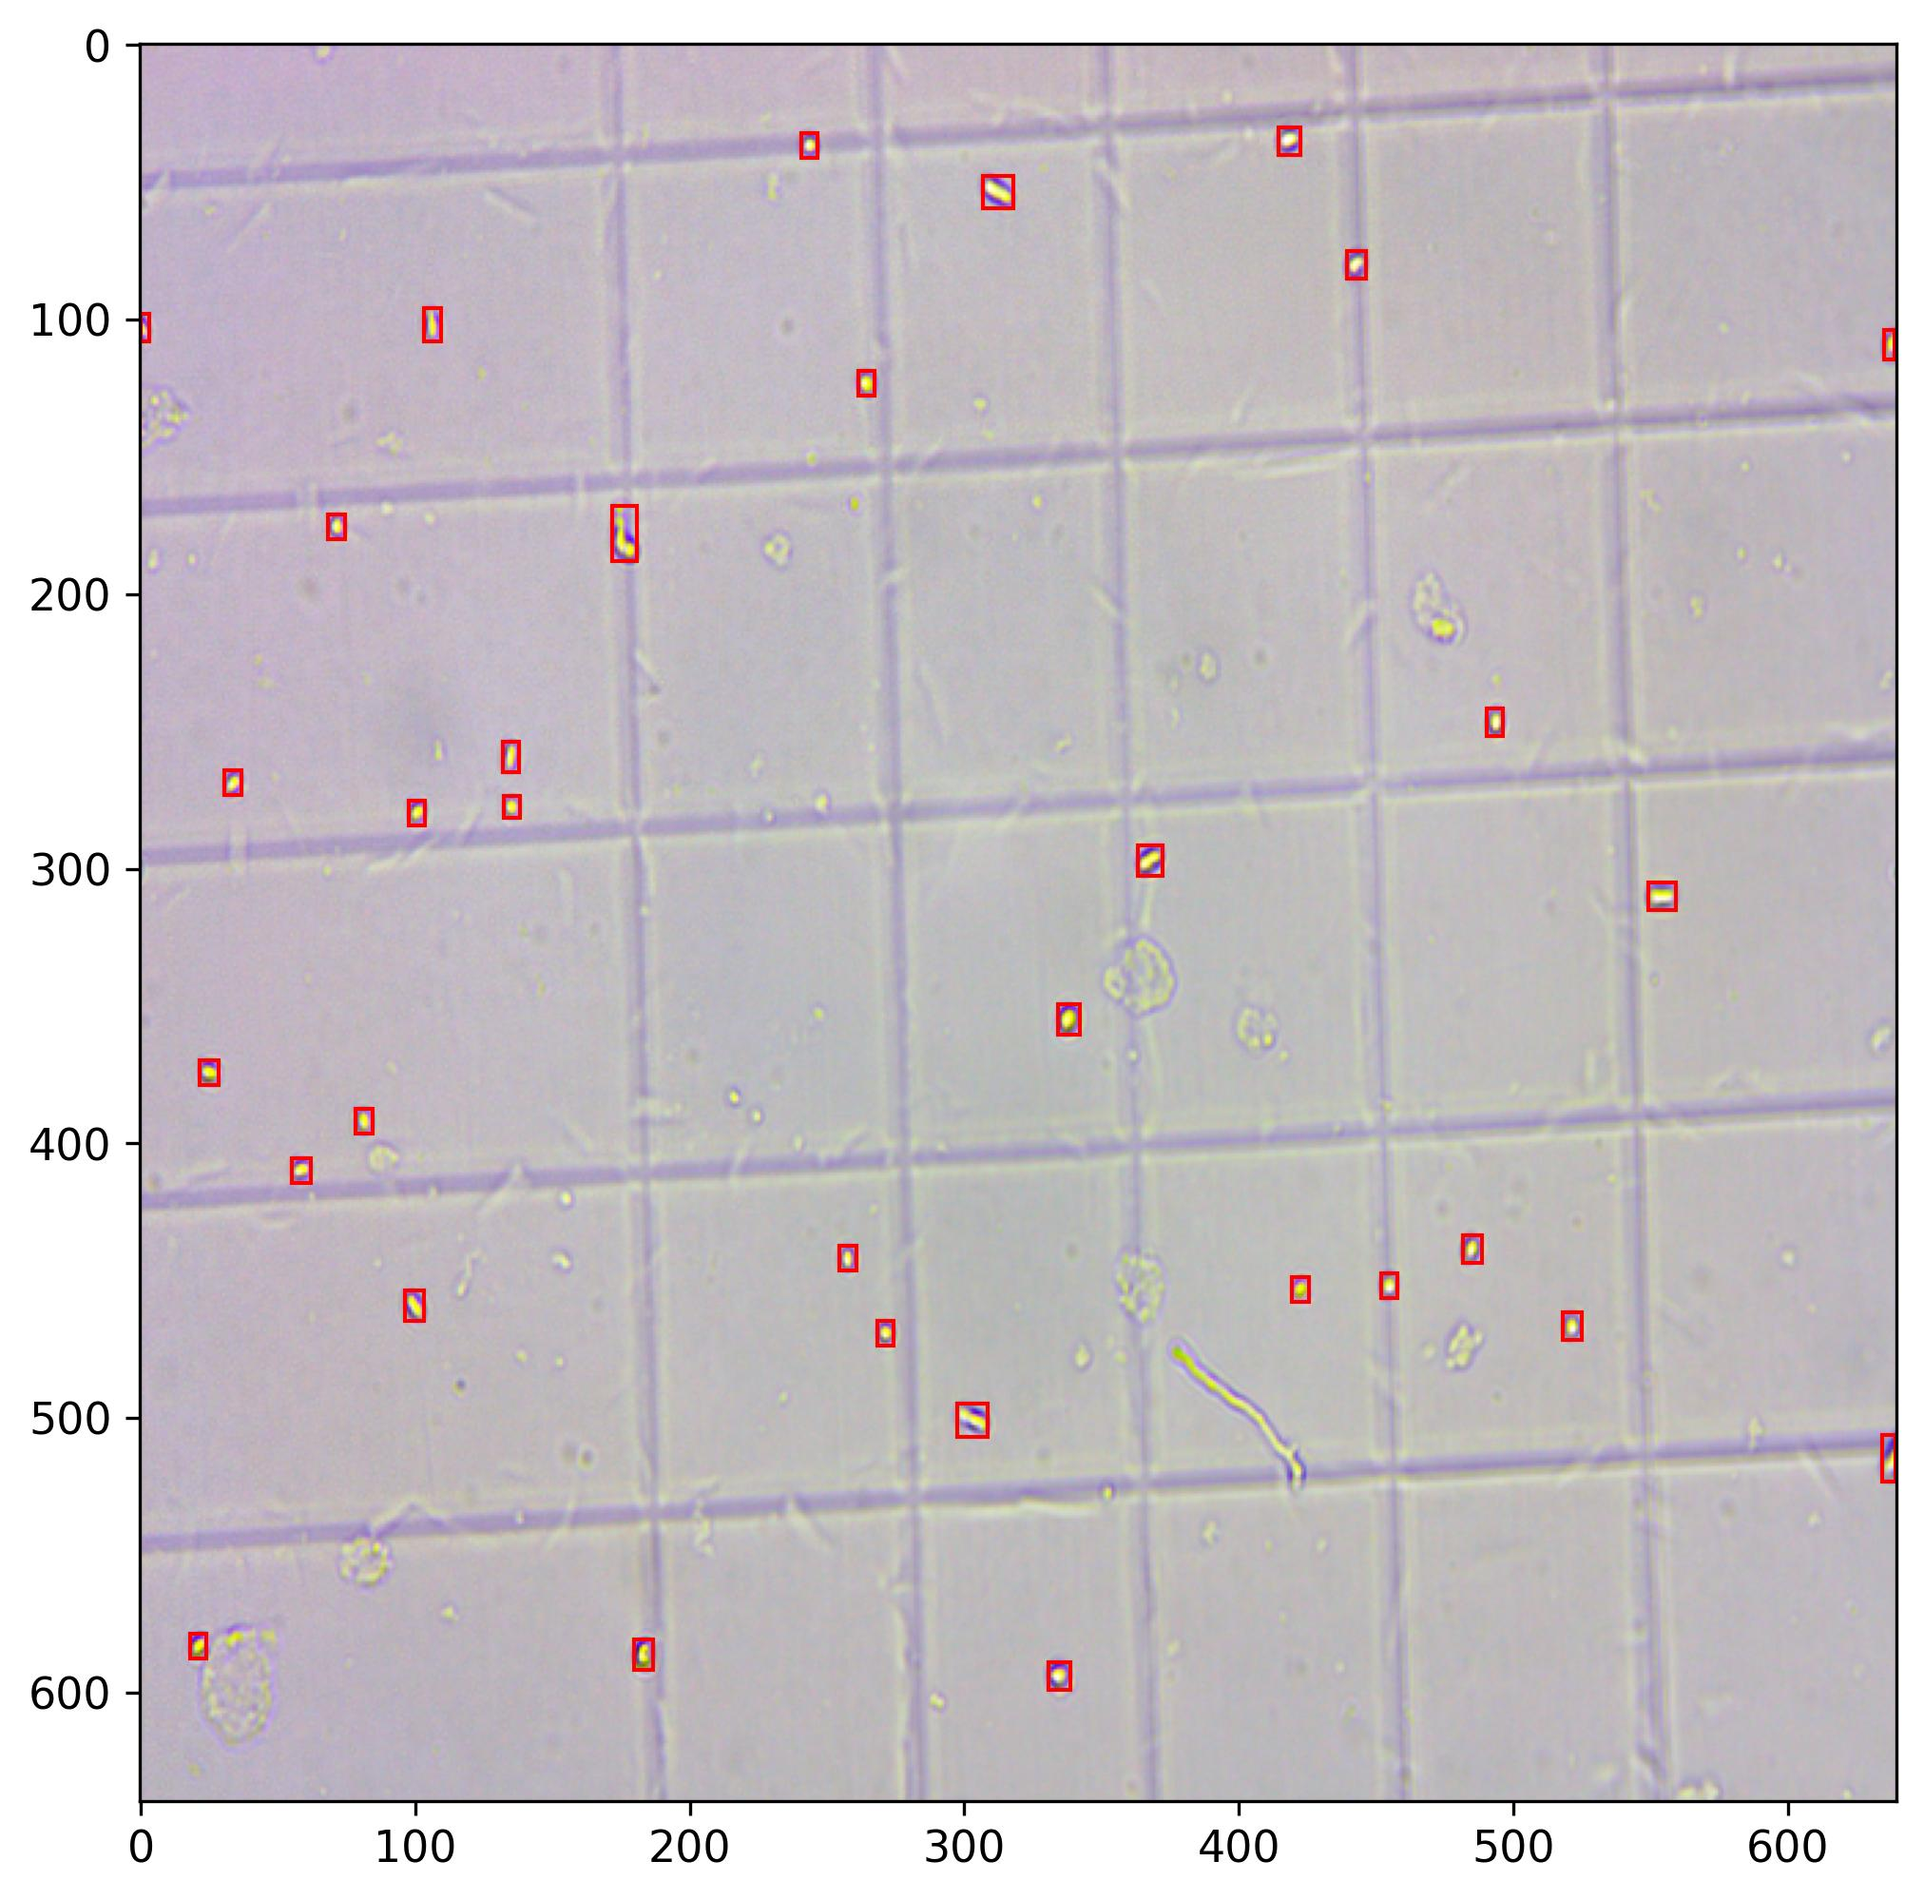
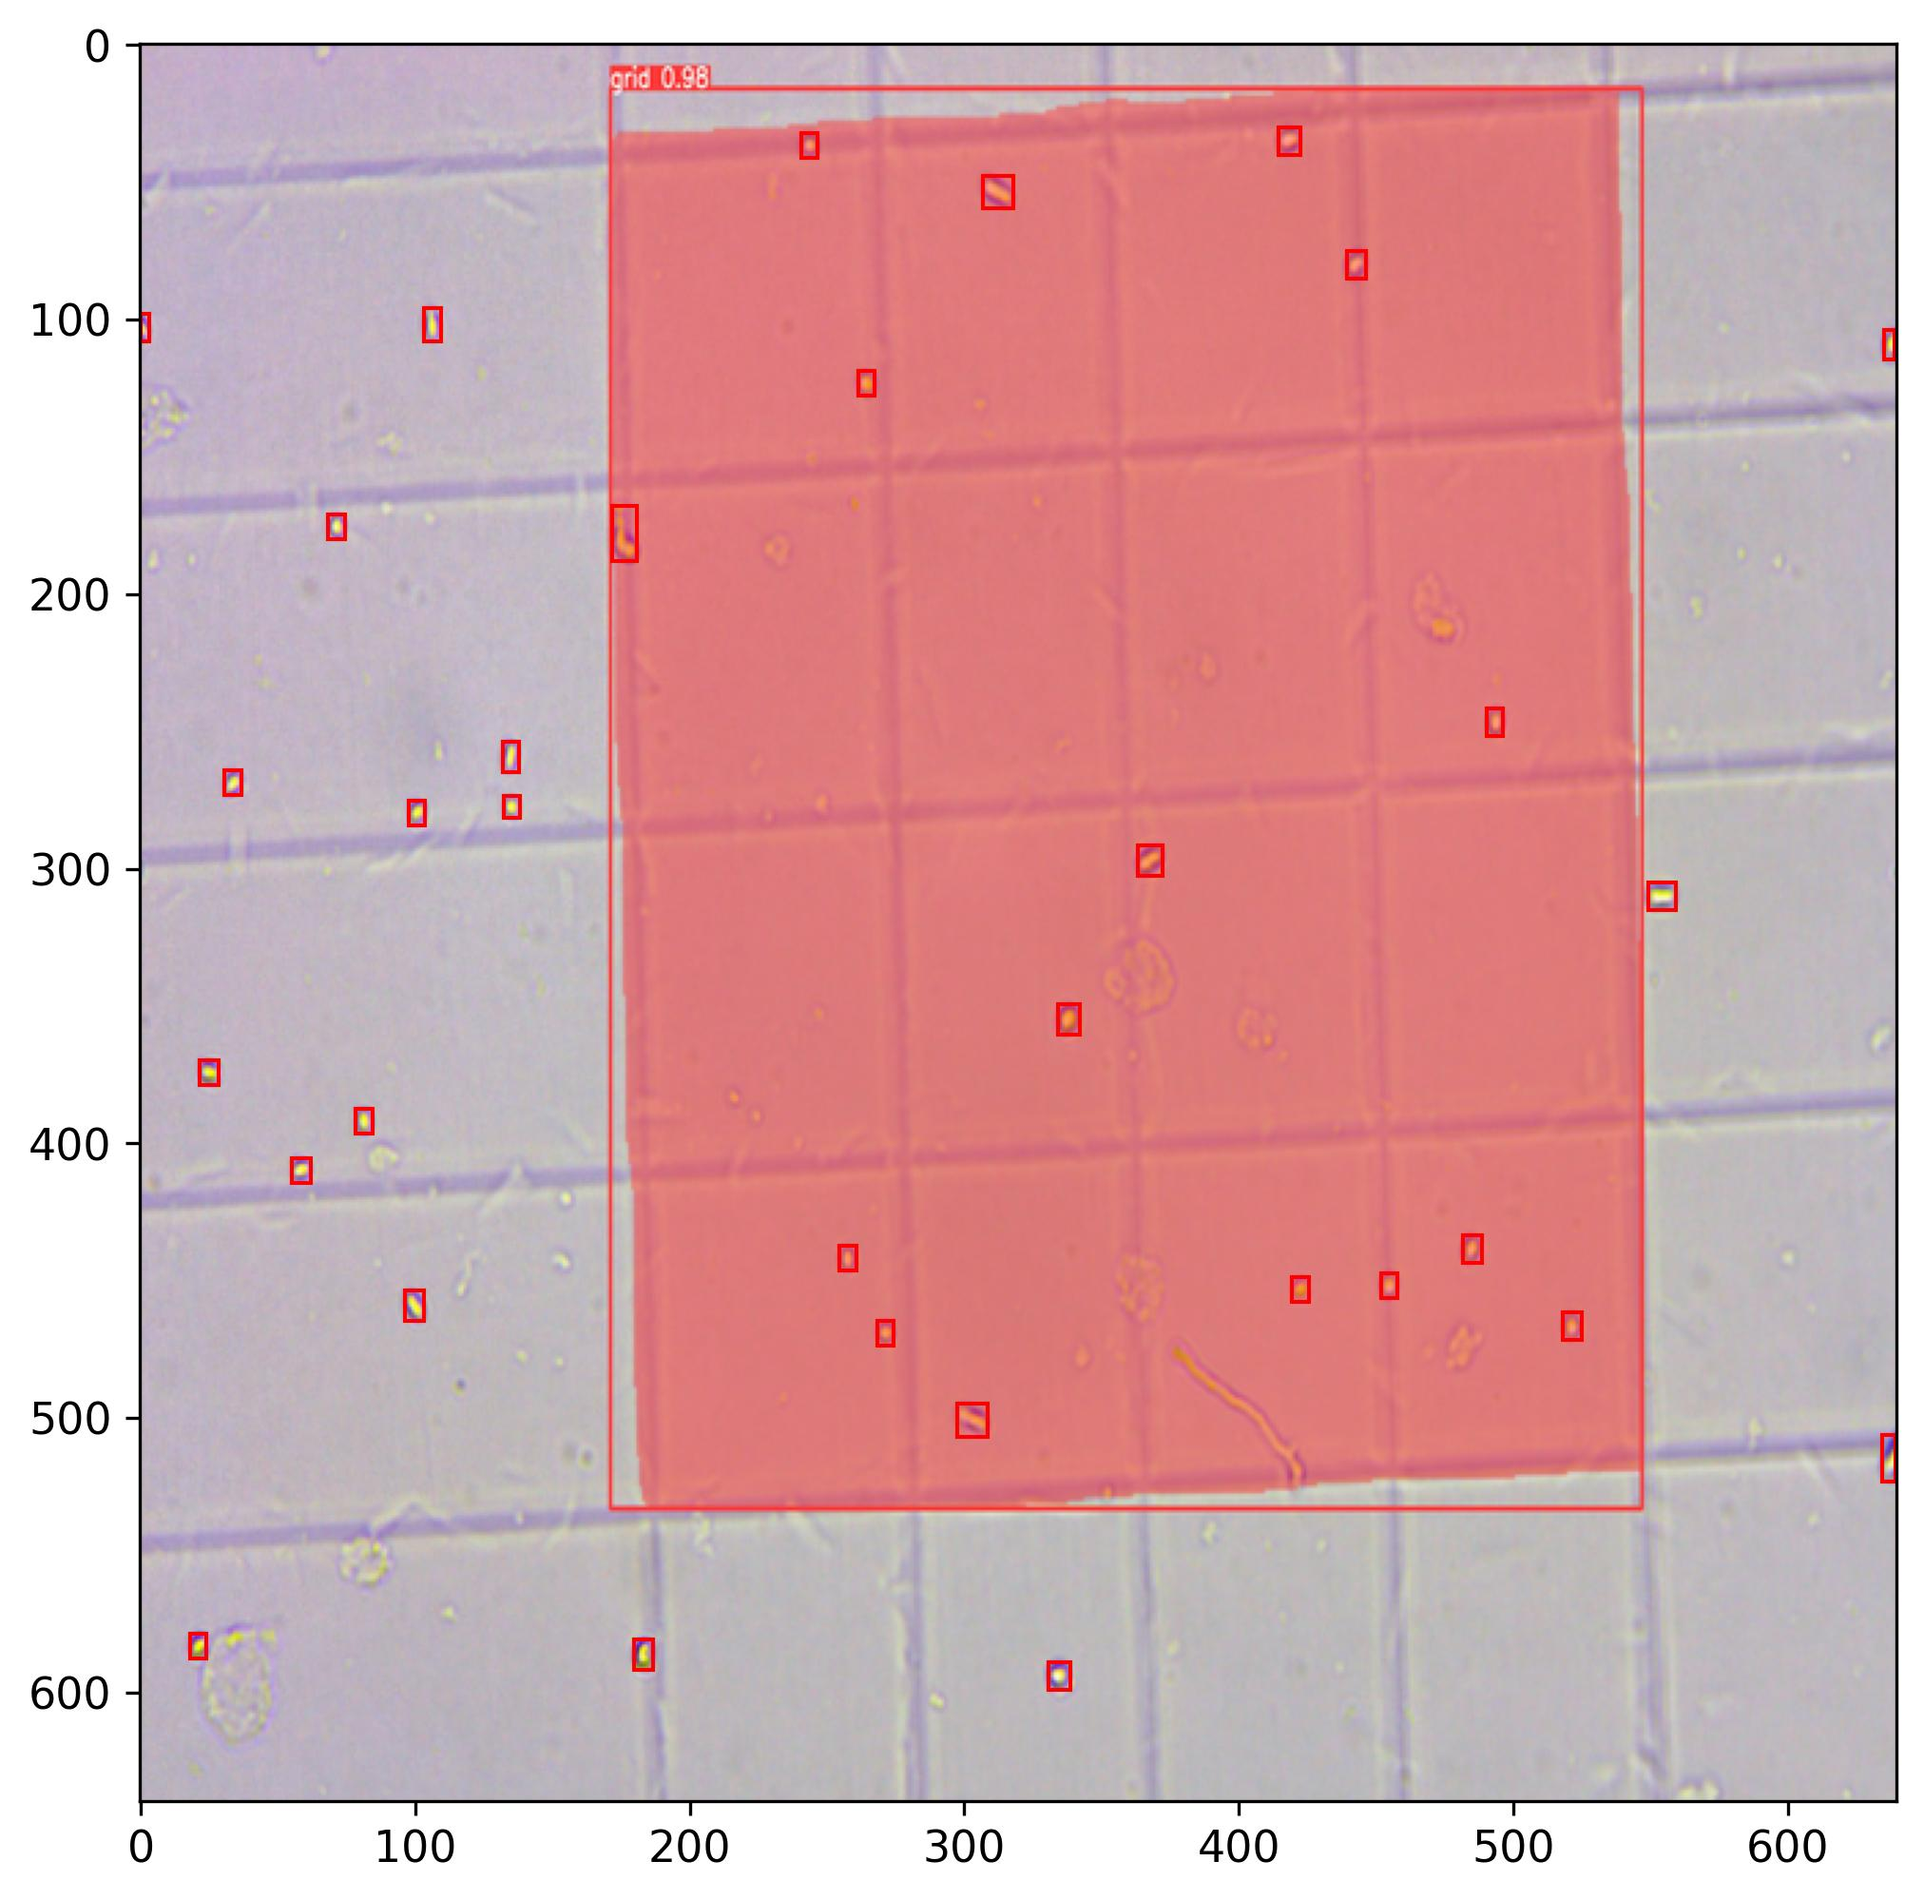
ch type_clc and result in_grid

diff --git a/utilits/calcs_boxes.py b/utilits/calcs_boxes.py
@@ -99,10 +99,10 @@ class BoxesOneImgNums():
             plt.rcParams["figure.figsize"] = (12,8)
             fig, ax = plt.subplots()
             
-            if self.mask_grid==None:
+            if self.config.type_clc=='simple':
                 # to save boxes without mask
                 plt.imshow(resized_image)
-            else:
+            elif self.config.type_clc=='in_grid':
                 # to save boxes with mask
                 masked_original_image = Image.open(
                     os.path.join(self.config.path_to_predicted_images, self.folder_name, self.img_name))
